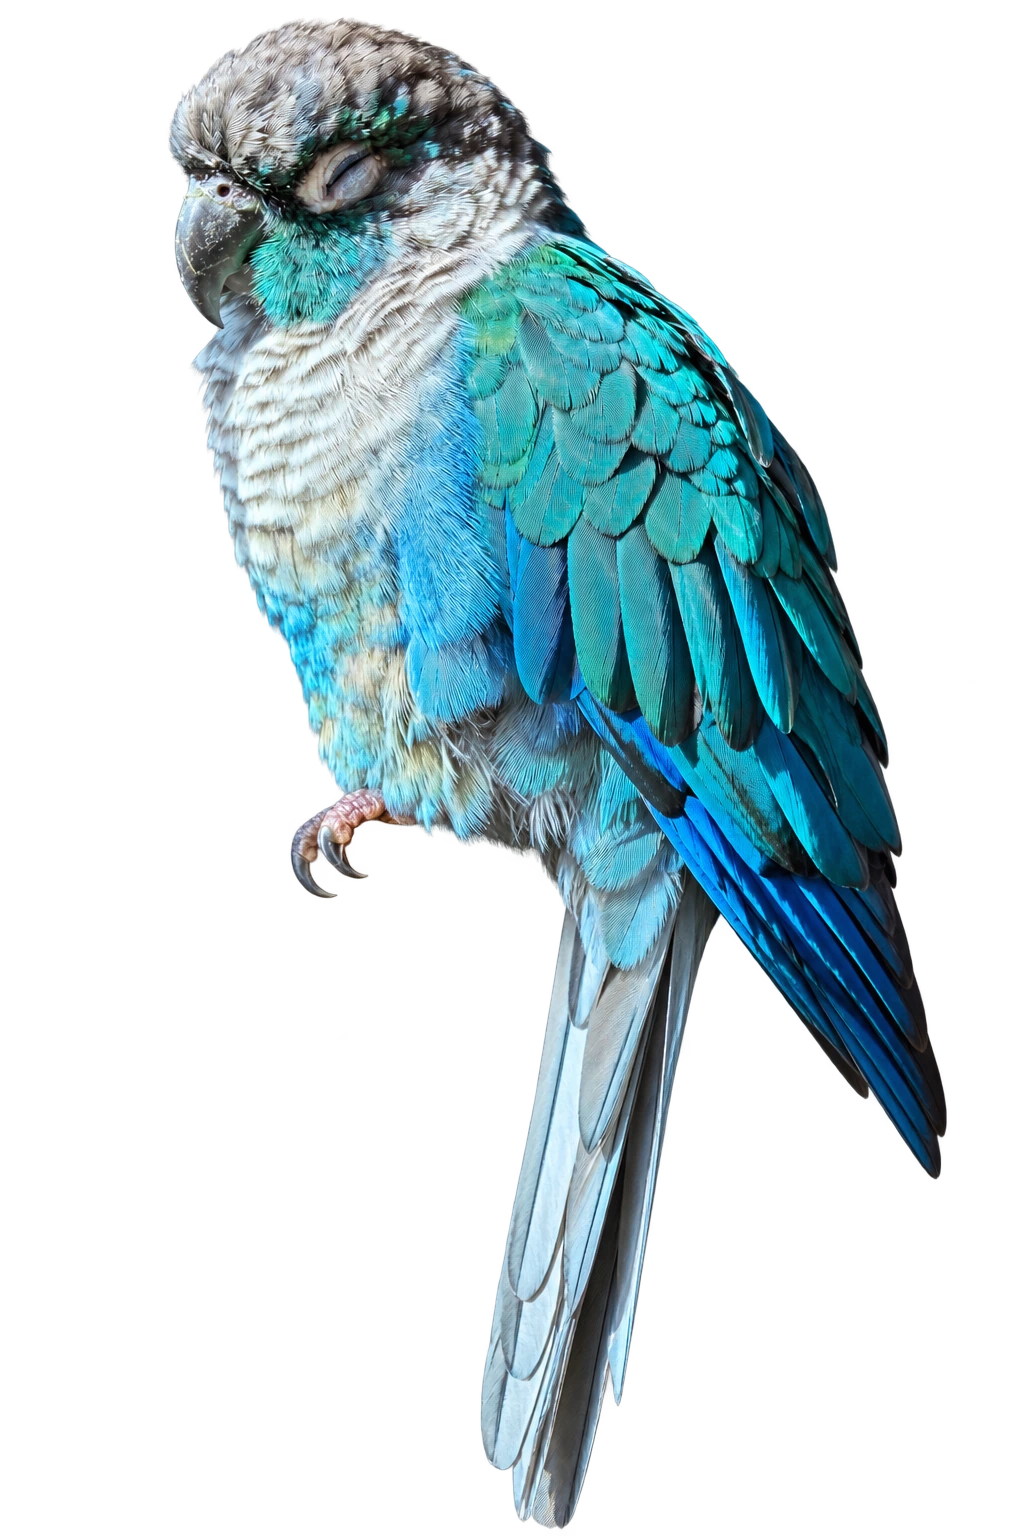
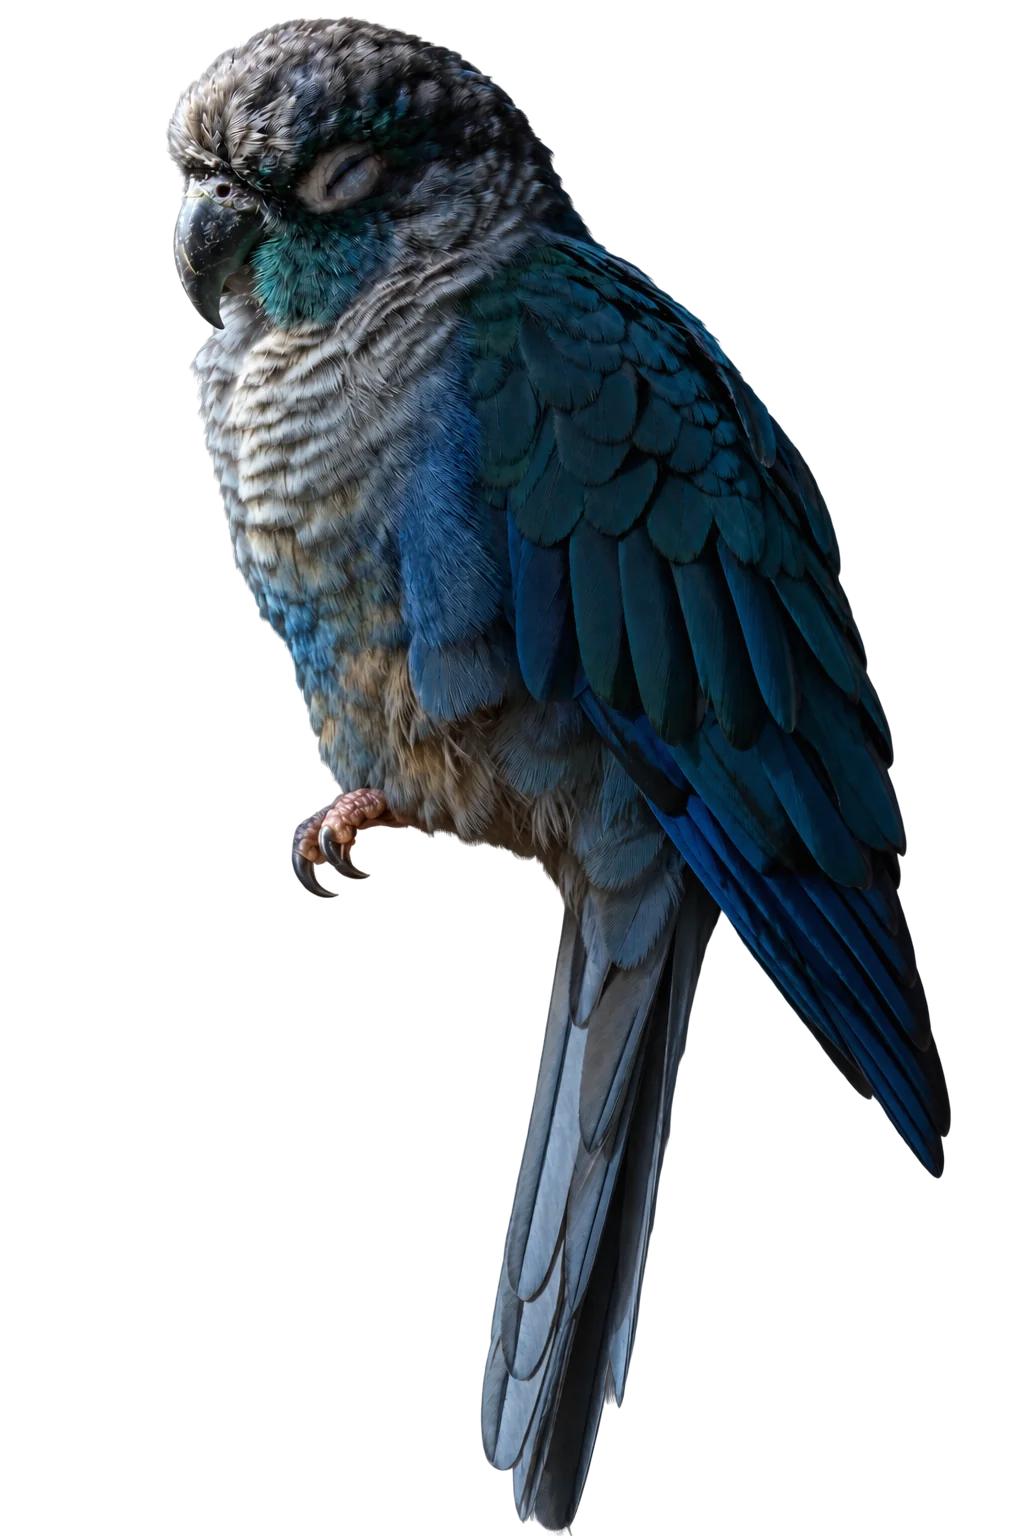
fix: match hero residents to night reference

diff --git a/index.html b/index.html
@@ -109,15 +109,26 @@
         <div class="residents" aria-label="Portraits of Sunny and Sky">
           <figure class="resident resident-sunny" data-face="sunny">
             <svg class="resident-support shared-perch" data-support-svg="sunny" viewBox="0 0 1366 1152" aria-hidden="true" focusable="false">
-              <defs><clipPath id="sunny-support-clip" clipPathUnits="userSpaceOnUse"><path d="M-2200 1280C-1200 1200 -300 1160 980 1095C1040 1080 1100 1010 1150 975C1420 850 1850 620 2100 670C2300 760 2450 850 2600 926L2600 1010C2450 930 2300 840 2100 790C1850 760 1500 950 1230 1052C1160 1110 1090 1170 990 1180C300 1240 -900 1300 -2200 1380Z"></path></clipPath></defs>
-              <path class="support-shadow support-wide" transform="translate(-5 10)" d="M-2200 1280C-1200 1200 -300 1160 980 1095C1040 1080 1100 1010 1150 975C1420 850 1850 620 2100 670C2320 650 2580 640 2800 650C2580 690 2320 720 2100 740C1850 760 1500 950 1230 1052C1160 1110 1090 1170 990 1180C300 1240 -900 1300 -2200 1380Z"></path>
+              <defs>
+                <clipPath id="sunny-support-clip" clipPathUnits="userSpaceOnUse"><path d="M-2200 1280C-1200 1200 -300 1160 980 1095C1040 1080 1100 1010 1150 975C1420 850 1850 620 2100 670C2300 760 2450 850 2600 926L2600 1010C2450 930 2300 840 2100 790C1850 760 1500 950 1230 1052C1160 1110 1090 1170 990 1180C300 1240 -900 1300 -2200 1380Z"></path></clipPath>
+                <clipPath id="sunny-wide-trim" clipPathUnits="userSpaceOnUse"><rect x="-3000" y="-1000" width="4260" height="4000"></rect></clipPath>
+              </defs>
+              <path class="support-shadow support-wide" clip-path="url(#sunny-wide-trim)" transform="translate(-5 10)" d="M-2200 1280C-1200 1200 -300 1160 980 1095C1040 1080 1100 1010 1150 975C1420 850 1850 620 2100 670C2320 650 2580 640 2800 650C2580 690 2320 720 2100 740C1850 760 1500 950 1230 1052C1160 1110 1090 1170 990 1180C300 1240 -900 1300 -2200 1380Z"></path>
               <path class="support-shadow support-intermediate" transform="translate(-5 10)" d="M-2200 1280C-1200 1200 -300 1160 980 1095C1040 1080 1100 1010 1150 975C1420 850 1850 620 2100 670C2300 760 2450 850 2600 926C2740 920 2890 900 3000 900C2860 940 2720 980 2600 1010C2450 930 2300 840 2100 790C1850 760 1500 950 1230 1052C1160 1110 1090 1170 990 1180C300 1240 -900 1300 -2200 1380Z"></path>
-              <path class="support-wood support-wide" data-shared-support="sunny" data-internal-terminal="2800,650" d="M-2200 1280C-1200 1200 -300 1160 980 1095C1040 1080 1100 1010 1150 975C1420 850 1850 620 2100 670C2320 650 2580 640 2800 650C2580 690 2320 720 2100 740C1850 760 1500 950 1230 1052C1160 1110 1090 1170 990 1180C300 1240 -900 1300 -2200 1380Z"></path>
+              <path class="support-shadow support-connector support-connector-wide" transform="translate(-5 10)" d="M1150 975C1420 850 1780 620 2110 510L2200 640C1800 750 1500 980 1230 1052C1200 1060 1170 1020 1150 975Z"></path>
+              <path class="support-shadow support-connector support-connector-tablet" transform="translate(-5 10)" d="M1150 975C1260 910 1420 650 1600 520L1720 620C1530 700 1340 880 1230 1052C1200 1060 1170 1020 1150 975Z"></path>
+              <path class="support-wood support-wide" clip-path="url(#sunny-wide-trim)" data-shared-support="sunny" data-internal-terminal="2800,650" d="M-2200 1280C-1200 1200 -300 1160 980 1095C1040 1080 1100 1010 1150 975C1420 850 1850 620 2100 670C2320 650 2580 640 2800 650C2580 690 2320 720 2100 740C1850 760 1500 950 1230 1052C1160 1110 1090 1170 990 1180C300 1240 -900 1300 -2200 1380Z"></path>
               <path class="support-wood support-intermediate" data-shared-support="sunny" data-internal-terminal="3000,900" d="M-2200 1280C-1200 1200 -300 1160 980 1095C1040 1080 1100 1010 1150 975C1420 850 1850 620 2100 670C2300 760 2450 850 2600 926C2740 920 2890 900 3000 900C2860 940 2720 980 2600 1010C2450 930 2300 840 2100 790C1850 760 1500 950 1230 1052C1160 1110 1090 1170 990 1180C300 1240 -900 1300 -2200 1380Z"></path>
-              <path class="support-boundary support-wide" data-support-contour="sunny" data-support-bird=".resident-sunny .resident-cutout" data-support-anchors="980,1095;1150,975" d="M-2200 1280C-1200 1200 -300 1160 980 1095C1040 1080 1100 1010 1150 975C1420 850 1850 620 2100 670C2320 650 2580 640 2800 650"></path>
+              <path class="support-wood support-connector support-connector-wide" data-shared-support="connector" d="M1150 975C1420 850 1780 620 2110 510L2200 640C1800 750 1500 980 1230 1052C1200 1060 1170 1020 1150 975Z"></path>
+              <path class="support-wood support-connector support-connector-tablet" data-shared-support="connector" d="M1150 975C1260 910 1420 650 1600 520L1720 620C1530 700 1340 880 1230 1052C1200 1060 1170 1020 1150 975Z"></path>
+              <path class="support-boundary support-wide" clip-path="url(#sunny-wide-trim)" data-support-contour="sunny" data-support-bird=".resident-sunny .resident-cutout" data-support-anchors="980,1095;1150,975" d="M-2200 1280C-1200 1200 -300 1160 980 1095C1040 1080 1100 1010 1150 975C1420 850 1850 620 2100 670C2320 650 2580 640 2800 650"></path>
               <path class="support-boundary support-intermediate" data-support-contour="sunny" data-support-bird=".resident-sunny .resident-cutout" data-support-anchors="980,1095;1150,975" d="M-2200 1280C-1200 1200 -300 1160 980 1095C1040 1080 1100 1010 1150 975C1420 850 1850 620 2100 670C2300 760 2450 850 2600 926C2740 920 2890 900 3000 900"></path>
+              <path class="support-boundary support-connector support-connector-wide" d="M1150 975C1420 850 1780 620 2110 510"></path>
+              <path class="support-boundary support-connector support-connector-tablet" d="M1150 975C1260 910 1420 650 1600 520"></path>
               <path class="support-contact-shadow" clip-path="url(#sunny-support-clip)" d="M934 1103Q974 1119 1018 1101M1110 990Q1148 1002 1190 982"></path>
-              <path class="support-fissure" d="M620 1140L680 1156M1310 972L1362 958M1510 950L1560 936"></path>
+              <path class="support-fissure sunny-support-fissure" clip-path="url(#sunny-wide-trim)" d="M620 1140L680 1156M1310 972L1362 958M1510 950L1560 936"></path>
+              <path class="support-fissure support-connector support-connector-wide" d="M1510 860L1570 825M1820 665L1880 632"></path>
+              <path class="support-fissure support-connector support-connector-tablet" d="M1218 785L1260 742M1270 590L1315 555"></path>
             </svg>
             <img class="resident-cutout" src="/assets/sunny-cutout.webp" width="1366" height="1152" alt="Sunny, a small green-and-yellow bird with a rosy tail and visible pink feet.">
             <figcaption>Sunny</figcaption>

diff --git a/sandbox/night-aviary/index.html b/sandbox/night-aviary/index.html
@@ -109,15 +109,26 @@
         <div class="residents" aria-label="Portraits of Sunny and Sky">
           <figure class="resident resident-sunny" data-face="sunny">
             <svg class="resident-support shared-perch" data-support-svg="sunny" viewBox="0 0 1366 1152" aria-hidden="true" focusable="false">
-              <defs><clipPath id="sunny-support-clip" clipPathUnits="userSpaceOnUse"><path d="M-2200 1280C-1200 1200 -300 1160 980 1095C1040 1080 1100 1010 1150 975C1420 850 1850 620 2100 670C2300 760 2450 850 2600 926L2600 1010C2450 930 2300 840 2100 790C1850 760 1500 950 1230 1052C1160 1110 1090 1170 990 1180C300 1240 -900 1300 -2200 1380Z"></path></clipPath></defs>
-              <path class="support-shadow support-wide" transform="translate(-5 10)" d="M-2200 1280C-1200 1200 -300 1160 980 1095C1040 1080 1100 1010 1150 975C1420 850 1850 620 2100 670C2320 650 2580 640 2800 650C2580 690 2320 720 2100 740C1850 760 1500 950 1230 1052C1160 1110 1090 1170 990 1180C300 1240 -900 1300 -2200 1380Z"></path>
+              <defs>
+                <clipPath id="sunny-support-clip" clipPathUnits="userSpaceOnUse"><path d="M-2200 1280C-1200 1200 -300 1160 980 1095C1040 1080 1100 1010 1150 975C1420 850 1850 620 2100 670C2300 760 2450 850 2600 926L2600 1010C2450 930 2300 840 2100 790C1850 760 1500 950 1230 1052C1160 1110 1090 1170 990 1180C300 1240 -900 1300 -2200 1380Z"></path></clipPath>
+                <clipPath id="sunny-wide-trim" clipPathUnits="userSpaceOnUse"><rect x="-3000" y="-1000" width="4260" height="4000"></rect></clipPath>
+              </defs>
+              <path class="support-shadow support-wide" clip-path="url(#sunny-wide-trim)" transform="translate(-5 10)" d="M-2200 1280C-1200 1200 -300 1160 980 1095C1040 1080 1100 1010 1150 975C1420 850 1850 620 2100 670C2320 650 2580 640 2800 650C2580 690 2320 720 2100 740C1850 760 1500 950 1230 1052C1160 1110 1090 1170 990 1180C300 1240 -900 1300 -2200 1380Z"></path>
               <path class="support-shadow support-intermediate" transform="translate(-5 10)" d="M-2200 1280C-1200 1200 -300 1160 980 1095C1040 1080 1100 1010 1150 975C1420 850 1850 620 2100 670C2300 760 2450 850 2600 926C2740 920 2890 900 3000 900C2860 940 2720 980 2600 1010C2450 930 2300 840 2100 790C1850 760 1500 950 1230 1052C1160 1110 1090 1170 990 1180C300 1240 -900 1300 -2200 1380Z"></path>
-              <path class="support-wood support-wide" data-shared-support="sunny" data-internal-terminal="2800,650" d="M-2200 1280C-1200 1200 -300 1160 980 1095C1040 1080 1100 1010 1150 975C1420 850 1850 620 2100 670C2320 650 2580 640 2800 650C2580 690 2320 720 2100 740C1850 760 1500 950 1230 1052C1160 1110 1090 1170 990 1180C300 1240 -900 1300 -2200 1380Z"></path>
+              <path class="support-shadow support-connector support-connector-wide" transform="translate(-5 10)" d="M1150 975C1420 850 1780 620 2110 510L2200 640C1800 750 1500 980 1230 1052C1200 1060 1170 1020 1150 975Z"></path>
+              <path class="support-shadow support-connector support-connector-tablet" transform="translate(-5 10)" d="M1150 975C1260 910 1420 650 1600 520L1720 620C1530 700 1340 880 1230 1052C1200 1060 1170 1020 1150 975Z"></path>
+              <path class="support-wood support-wide" clip-path="url(#sunny-wide-trim)" data-shared-support="sunny" data-internal-terminal="2800,650" d="M-2200 1280C-1200 1200 -300 1160 980 1095C1040 1080 1100 1010 1150 975C1420 850 1850 620 2100 670C2320 650 2580 640 2800 650C2580 690 2320 720 2100 740C1850 760 1500 950 1230 1052C1160 1110 1090 1170 990 1180C300 1240 -900 1300 -2200 1380Z"></path>
               <path class="support-wood support-intermediate" data-shared-support="sunny" data-internal-terminal="3000,900" d="M-2200 1280C-1200 1200 -300 1160 980 1095C1040 1080 1100 1010 1150 975C1420 850 1850 620 2100 670C2300 760 2450 850 2600 926C2740 920 2890 900 3000 900C2860 940 2720 980 2600 1010C2450 930 2300 840 2100 790C1850 760 1500 950 1230 1052C1160 1110 1090 1170 990 1180C300 1240 -900 1300 -2200 1380Z"></path>
-              <path class="support-boundary support-wide" data-support-contour="sunny" data-support-bird=".resident-sunny .resident-cutout" data-support-anchors="980,1095;1150,975" d="M-2200 1280C-1200 1200 -300 1160 980 1095C1040 1080 1100 1010 1150 975C1420 850 1850 620 2100 670C2320 650 2580 640 2800 650"></path>
+              <path class="support-wood support-connector support-connector-wide" data-shared-support="connector" d="M1150 975C1420 850 1780 620 2110 510L2200 640C1800 750 1500 980 1230 1052C1200 1060 1170 1020 1150 975Z"></path>
+              <path class="support-wood support-connector support-connector-tablet" data-shared-support="connector" d="M1150 975C1260 910 1420 650 1600 520L1720 620C1530 700 1340 880 1230 1052C1200 1060 1170 1020 1150 975Z"></path>
+              <path class="support-boundary support-wide" clip-path="url(#sunny-wide-trim)" data-support-contour="sunny" data-support-bird=".resident-sunny .resident-cutout" data-support-anchors="980,1095;1150,975" d="M-2200 1280C-1200 1200 -300 1160 980 1095C1040 1080 1100 1010 1150 975C1420 850 1850 620 2100 670C2320 650 2580 640 2800 650"></path>
               <path class="support-boundary support-intermediate" data-support-contour="sunny" data-support-bird=".resident-sunny .resident-cutout" data-support-anchors="980,1095;1150,975" d="M-2200 1280C-1200 1200 -300 1160 980 1095C1040 1080 1100 1010 1150 975C1420 850 1850 620 2100 670C2300 760 2450 850 2600 926C2740 920 2890 900 3000 900"></path>
+              <path class="support-boundary support-connector support-connector-wide" d="M1150 975C1420 850 1780 620 2110 510"></path>
+              <path class="support-boundary support-connector support-connector-tablet" d="M1150 975C1260 910 1420 650 1600 520"></path>
               <path class="support-contact-shadow" clip-path="url(#sunny-support-clip)" d="M934 1103Q974 1119 1018 1101M1110 990Q1148 1002 1190 982"></path>
-              <path class="support-fissure" d="M620 1140L680 1156M1310 972L1362 958M1510 950L1560 936"></path>
+              <path class="support-fissure sunny-support-fissure" clip-path="url(#sunny-wide-trim)" d="M620 1140L680 1156M1310 972L1362 958M1510 950L1560 936"></path>
+              <path class="support-fissure support-connector support-connector-wide" d="M1510 860L1570 825M1820 665L1880 632"></path>
+              <path class="support-fissure support-connector support-connector-tablet" d="M1218 785L1260 742M1270 590L1315 555"></path>
             </svg>
             <img class="resident-cutout" src="/assets/sunny-cutout.webp" width="1366" height="1152" alt="Sunny, a small green-and-yellow bird with a rosy tail and visible pink feet.">
             <figcaption>Sunny</figcaption>

diff --git a/styles.css b/styles.css
@@ -8,19 +8,20 @@
   --color-text-quiet: #bac9c3;
   --color-sunny: #e7c769;
   --color-sky: #81d3d8;
-  --color-bark: #5d4634;
-  --color-bark-dark: #2e261f;
-  --color-bark-edge: #a18a6d;
+  --color-bark: #49362a;
+  --color-bark-dark: #241c17;
+  --color-bark-edge: #846d58;
   --color-rib: rgba(186, 201, 195, 0.16);
   --color-star: rgba(238, 234, 215, 0.72);
   --color-moon-edge: rgba(238, 234, 215, 0.34);
   --color-shadow: rgba(0, 0, 0, 0.52);
   --color-contact-shadow: rgba(0, 0, 0, 0.18);
+  --color-subject-contact-shadow: rgba(0, 0, 0, 0.34);
   --color-menu: rgba(7, 16, 22, 0.96);
   /* Honest local stacks: this sandbox ships no licensed font files or remote font requests. */
   --font-display: Georgia, "Times New Roman", Times, serif;
   --font-body: "Avenir Next", Avenir, "Segoe UI", Helvetica, Arial, sans-serif;
-  --size-display: clamp(5rem, 10vw, 9.5rem);
+  --size-display: clamp(5rem, 10vw, 10.5rem);
   --size-h2: clamp(3rem, 6vw, 6.5rem);
   --size-h3: clamp(2rem, 3.5vw, 4rem);
   --size-body-large: clamp(1.05rem, 1.6vw, 1.35rem);
@@ -54,6 +55,7 @@
   --focus-width: 0.2rem;
   --focus-offset: 0.3rem;
   --shadow-contact: 0 0.1875rem 0.375rem var(--color-contact-shadow);
+  --shadow-subject-ambient: 0.7rem 0.85rem 1rem rgba(0, 0, 0, 0.52);
   --layer-back: 1;
   --layer-middle: 2;
   --layer-content: 3;
@@ -249,7 +251,10 @@ h3 {
   isolation: isolate;
   min-height: max(50rem, 100svh);
   overflow: hidden;
-  background: var(--color-canvas);
+  background:
+    radial-gradient(circle at 70% 19%, rgba(238, 234, 215, 0.055), transparent 24rem),
+    radial-gradient(ellipse at 60% 58%, rgba(20, 56, 59, 0.12), transparent 35rem),
+    var(--color-canvas);
 }
 
 .scene-definitions {
@@ -280,7 +285,8 @@ h3 {
   aspect-ratio: 1;
   border-radius: 50%;
   background: var(--color-moon);
-  opacity: 0.65;
+  filter: drop-shadow(0 0 0.7rem rgba(238, 234, 215, 0.26));
+  opacity: 0.78;
   transform: translateX(-50%);
   -webkit-mask: radial-gradient(circle at 27% 38%, transparent 0 57%, black 58%);
   mask: radial-gradient(circle at 27% 38%, transparent 0 57%, black 58%);
@@ -453,13 +459,13 @@ h1 i {
   width: 100%;
   height: 100%;
   object-fit: contain;
-  filter: brightness(0.94) saturate(0.9) contrast(1.02) drop-shadow(var(--shadow-contact));
+  filter: saturate(0.96) contrast(1.02) drop-shadow(var(--shadow-subject-ambient));
 }
 
 .resident-sunny {
-  top: 19%;
+  top: 24%;
   left: 39%;
-  width: clamp(20rem, 30vw, 27rem);
+  width: clamp(20rem, 30vw, 30rem);
   aspect-ratio: 1366 / 1152;
 }
 
@@ -472,8 +478,8 @@ h1 i {
 
 .resident-sky {
   top: 14%;
-  right: 3%;
-  width: clamp(16rem, 22vw, 21rem);
+  right: 6%;
+  width: clamp(16rem, 22vw, 24rem);
   aspect-ratio: 2 / 3;
 }
 
@@ -503,6 +509,7 @@ h1 i {
   z-index: var(--layer-middle);
   width: 100%;
   height: 100%;
+  filter: drop-shadow(0 0.65rem 0.65rem rgba(0, 0, 0, 0.46));
 }
 
 .support-shadow {
@@ -518,6 +525,10 @@ h1 i {
   display: none;
 }
 
+.support-connector-tablet {
+  display: none;
+}
+
 .support-boundary {
   fill: none;
   stroke: var(--color-bark-edge);
@@ -529,7 +540,7 @@ h1 i {
 
 .support-contact-shadow {
   fill: none;
-  stroke: var(--color-contact-shadow);
+  stroke: var(--color-subject-contact-shadow);
   stroke-linecap: round;
   stroke-width: 22;
 }
@@ -953,13 +964,13 @@ h3 {
   }
 
   .resident-sunny {
-    top: 19%;
+    top: 24%;
     left: 30%;
-    width: clamp(19rem, 40vw, 24rem);
+    width: clamp(19rem, 40vw, 26rem);
   }
 
   .resident-sky {
-    right: 1%;
+    right: 4%;
     width: clamp(14rem, 30vw, 19rem);
   }
 
@@ -981,6 +992,36 @@ h3 {
     top: calc(39% - min(24.75vw, 15.675rem));
   }
 
+}
+
+@media (min-width: 52.0625rem) and (max-width: 64rem) {
+  .support-connector-wide {
+    display: none;
+  }
+
+  .support-connector-tablet {
+    display: block;
+  }
+}
+
+@media (min-width: 90.0625rem) {
+  .site-nav,
+  .hero-content {
+    width: 100%;
+  }
+
+  .site-nav {
+    padding-inline: 7.75rem;
+  }
+
+  .hero-title-block,
+  .hero-note {
+    left: 7.75rem;
+  }
+
+  .moon-disc {
+    left: 70%;
+  }
 }
 
 @media (max-width: 52rem) {
@@ -1061,7 +1102,7 @@ h3 {
 
   .resident-sunny {
     top: 27%;
-    left: -2%;
+    left: 0;
     width: clamp(13rem, 54vw, 21rem);
   }
 
@@ -1069,6 +1110,10 @@ h3 {
     top: 28%;
     right: 0;
     width: clamp(10rem, 40vw, 17rem);
+  }
+
+  .support-connector {
+    display: none;
   }
 
   @media (min-width: 25.0625rem) {
@@ -1191,6 +1236,10 @@ h3 {
   .resident-sky {
     top: 28%;
     width: 48vw;
+  }
+
+  .resident-sunny .support-wide[clip-path] {
+    clip-path: none;
   }
 
   .hero-note {
